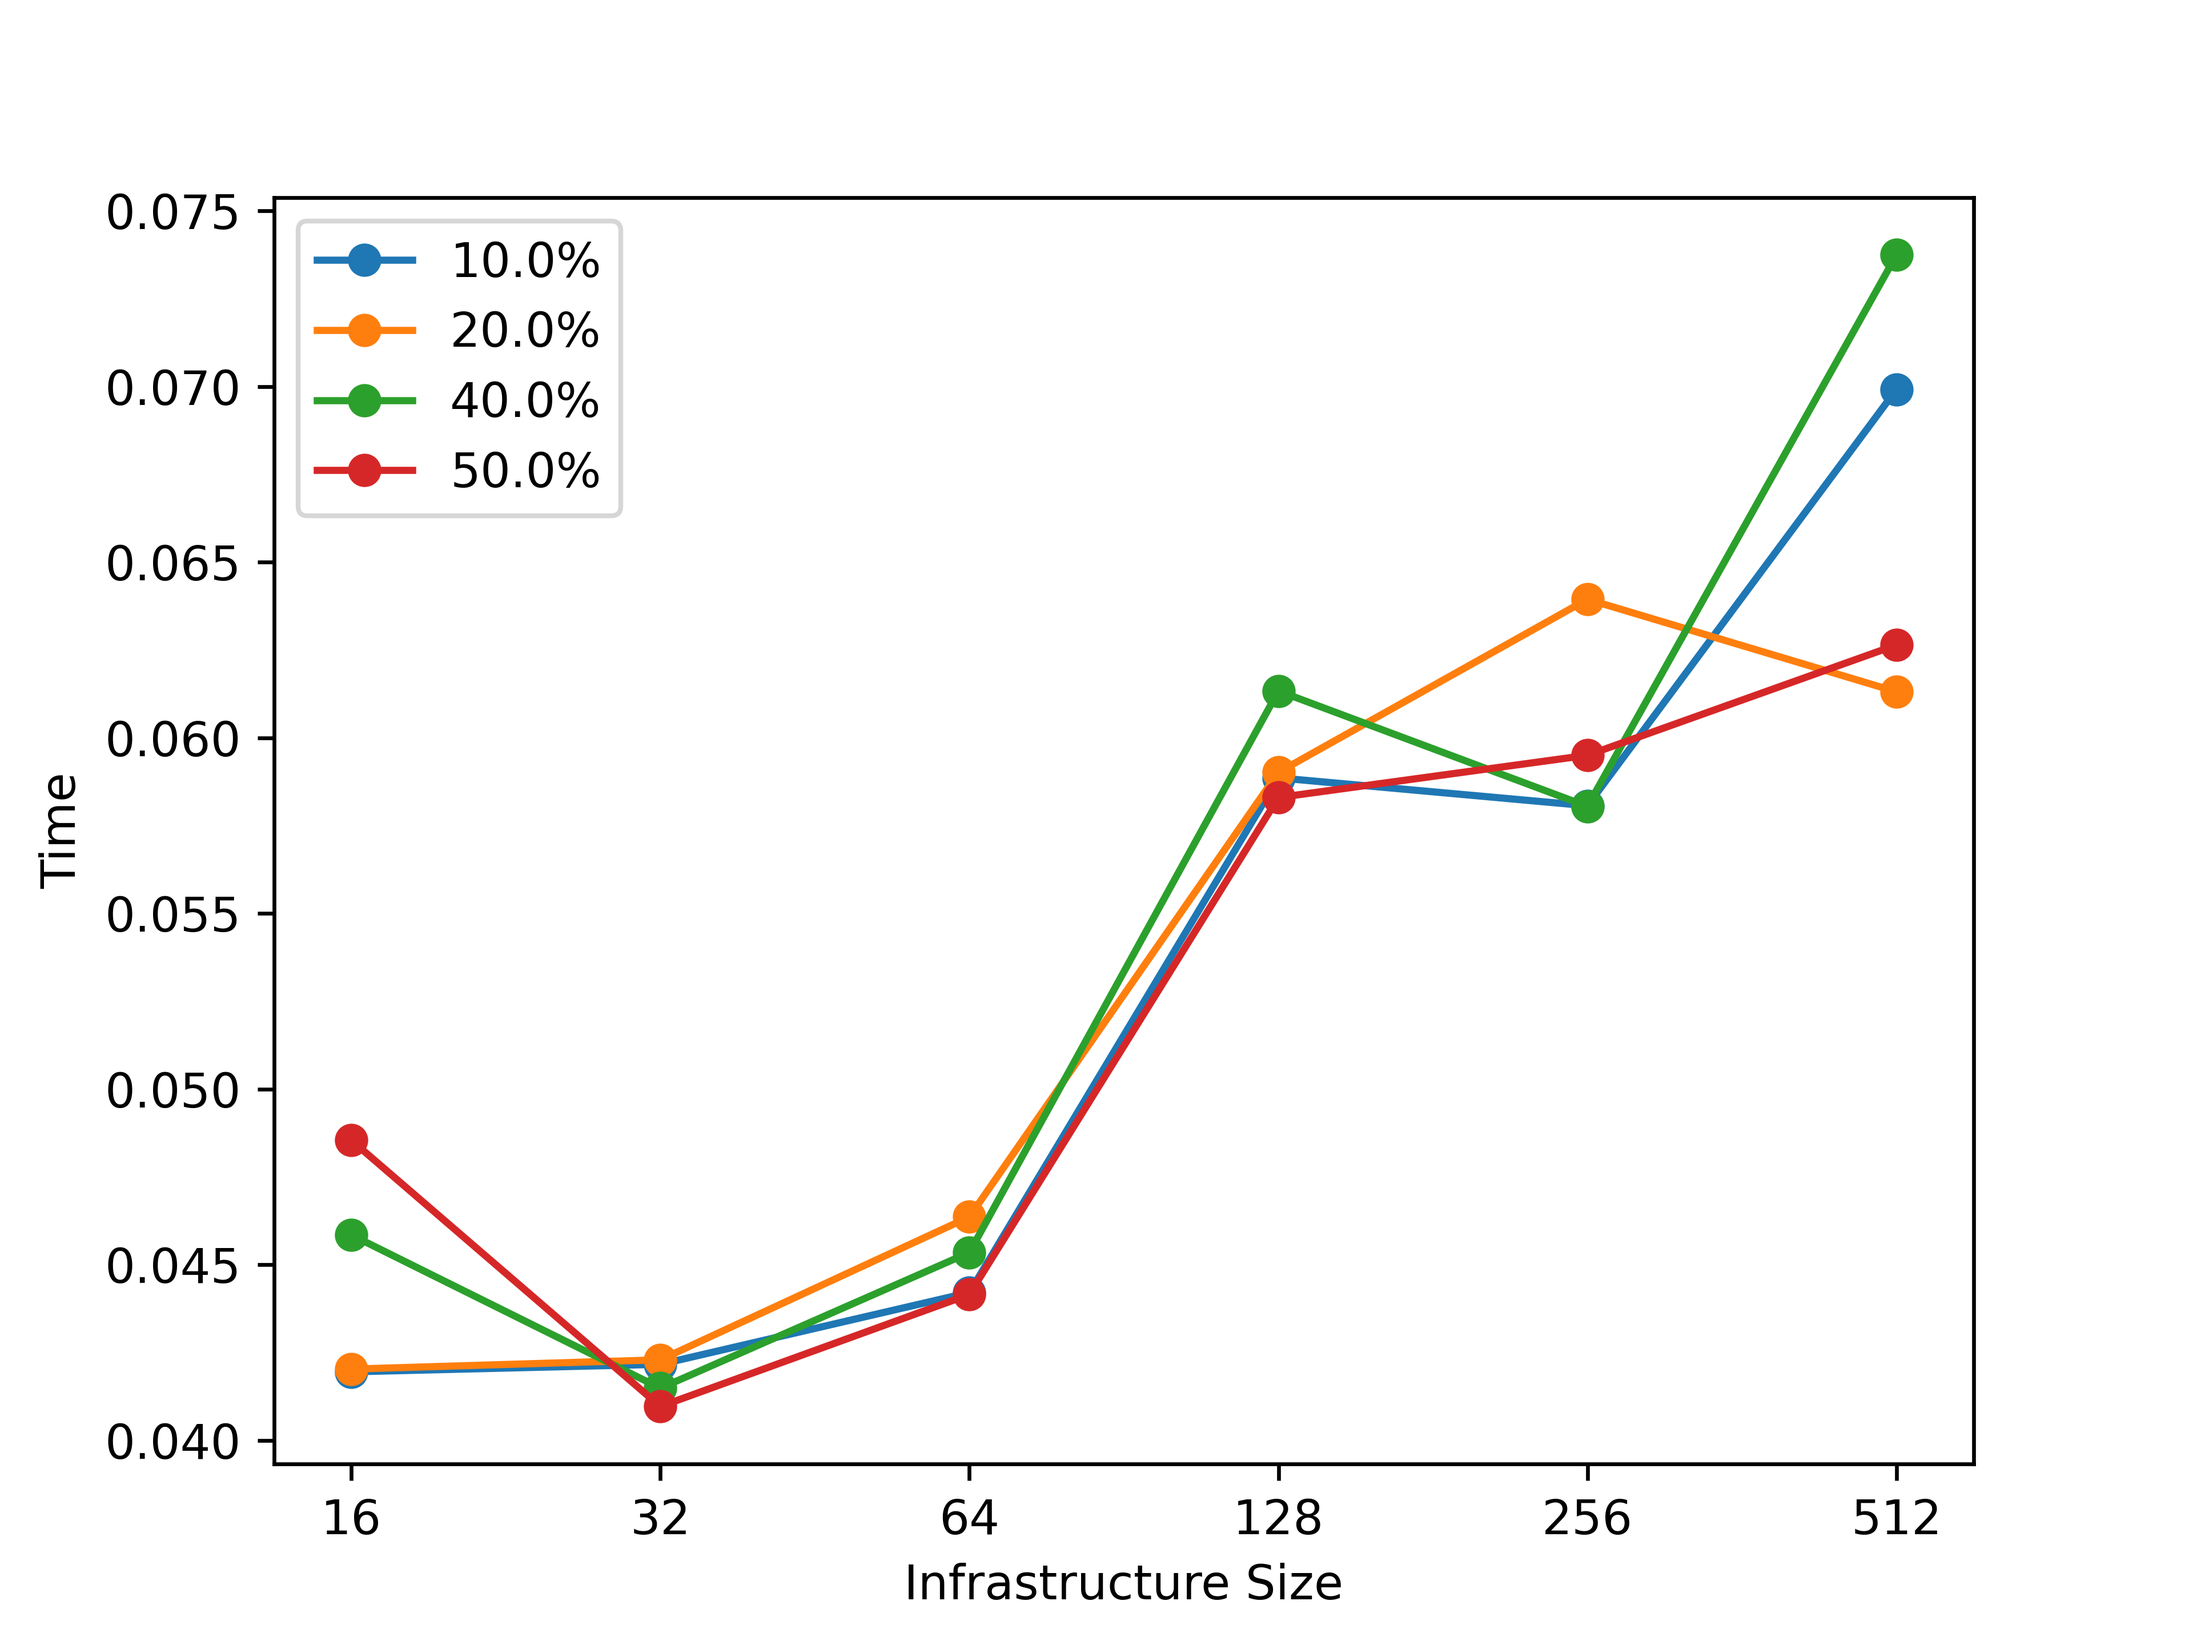
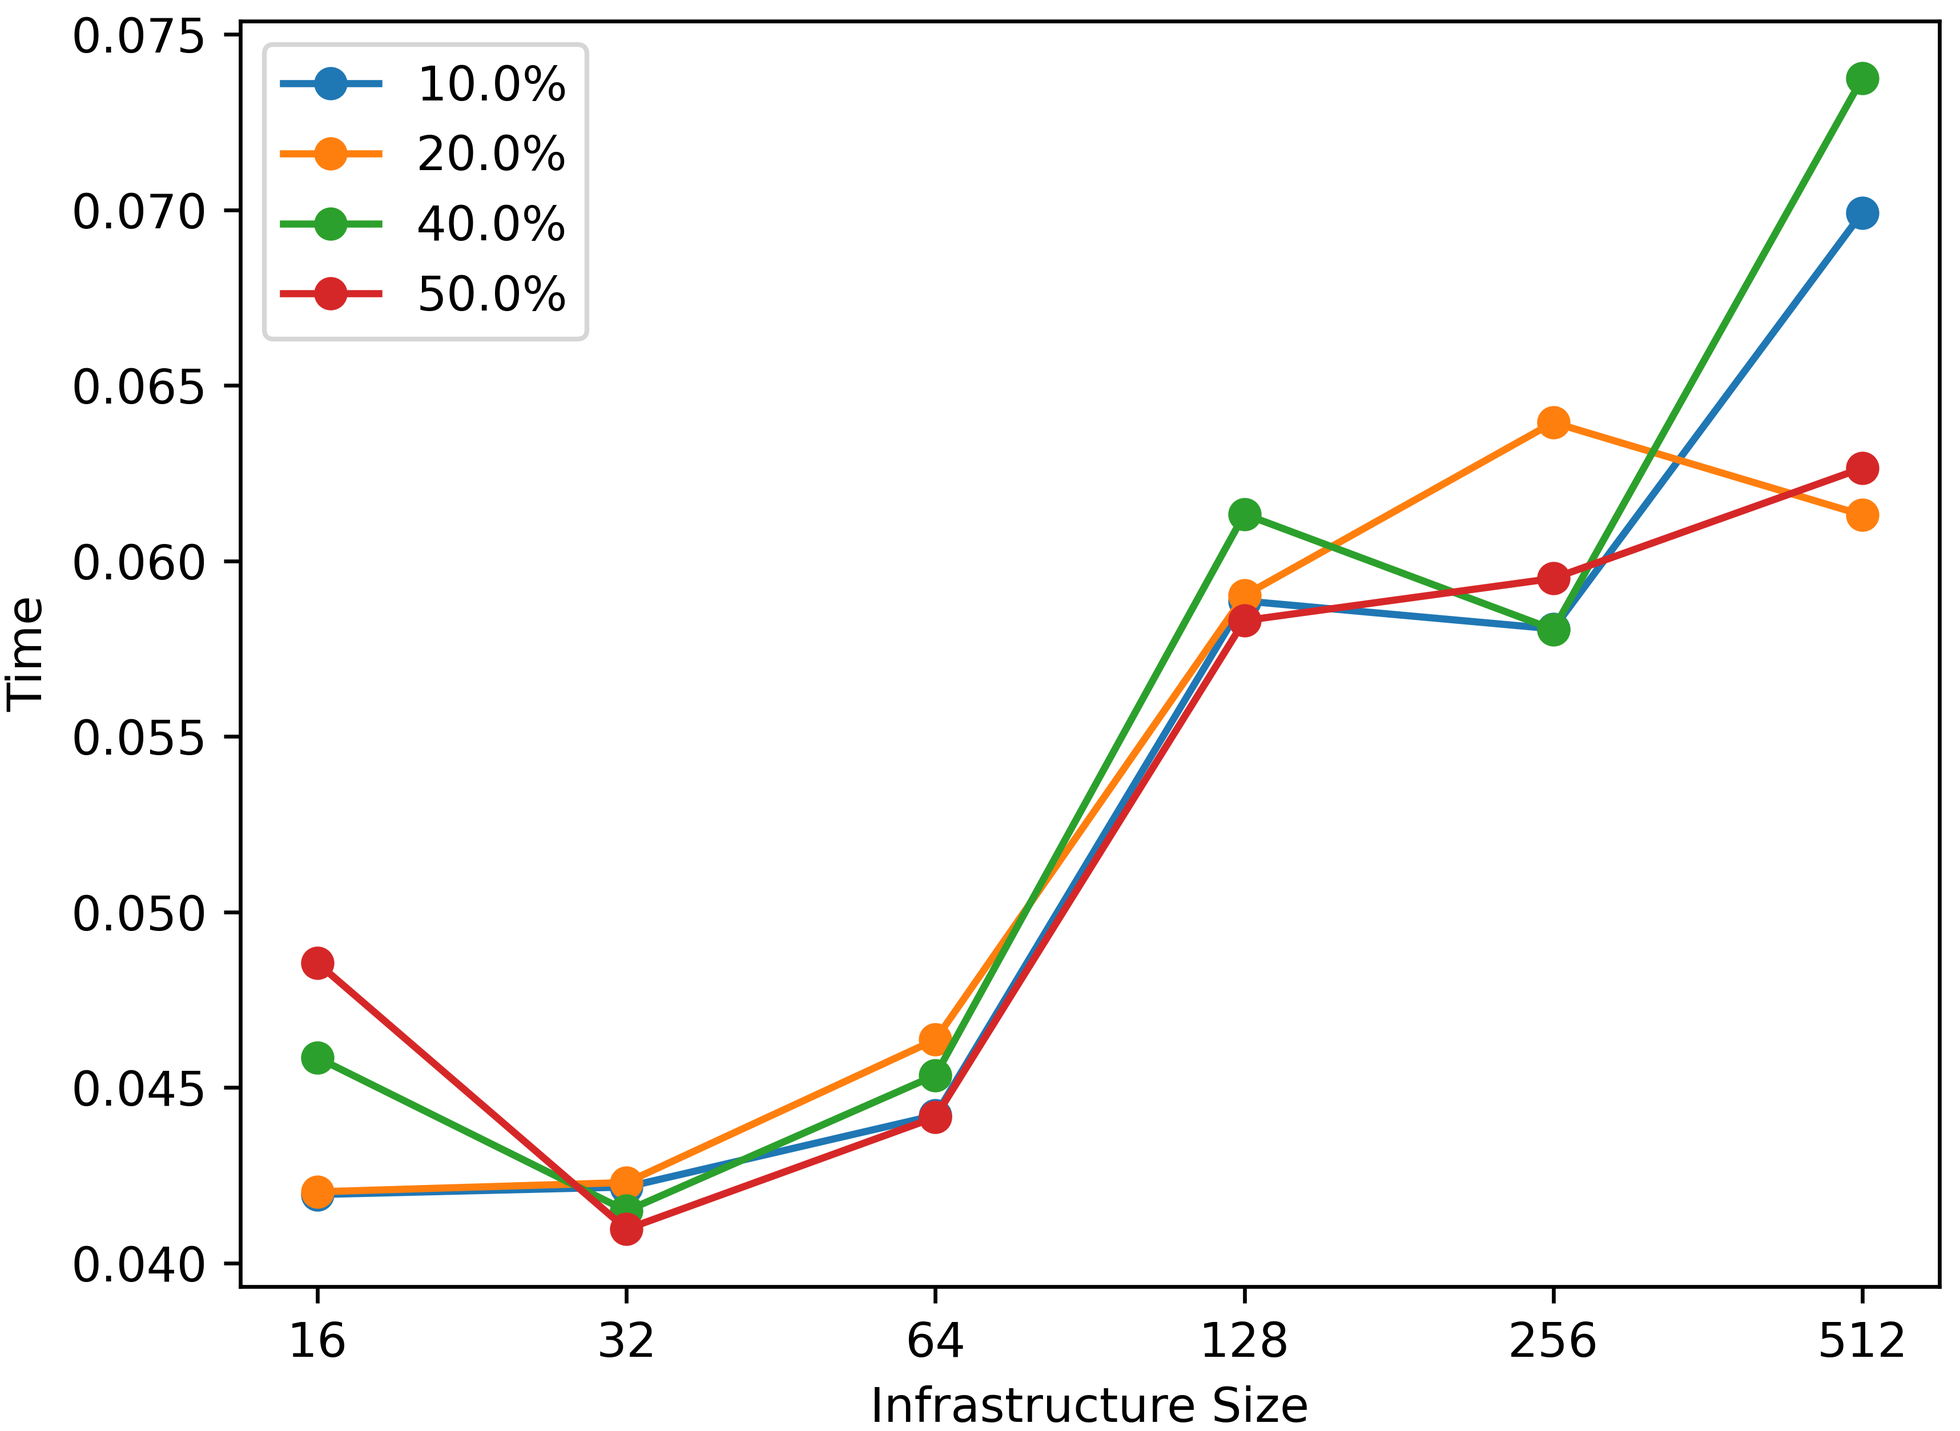
Update experiment code

diff --git a/experiment/analysis.py b/experiment/analysis.py
@@ -3,7 +3,6 @@ import pandas as pd
 
 FILENAME = "csv/results.csv"
 
-
 def speedups():
 	df = pd.read_csv(FILENAME)
 
@@ -27,7 +26,8 @@ def main(field="Infs"):
 	plt.figure()
 	plt.xticks(x, sizes)
 	plt.xlabel("Infrastructure Size")
-	plt.ylabel(field)
+	ylabel = "Inferences" if field.startswith("Infs") else "Time"
+	plt.ylabel(ylabel)
 	for r in rates:
 		y = df.loc[df["Rate"] == r][field]
 		lbl = str(r*100) + "%"
